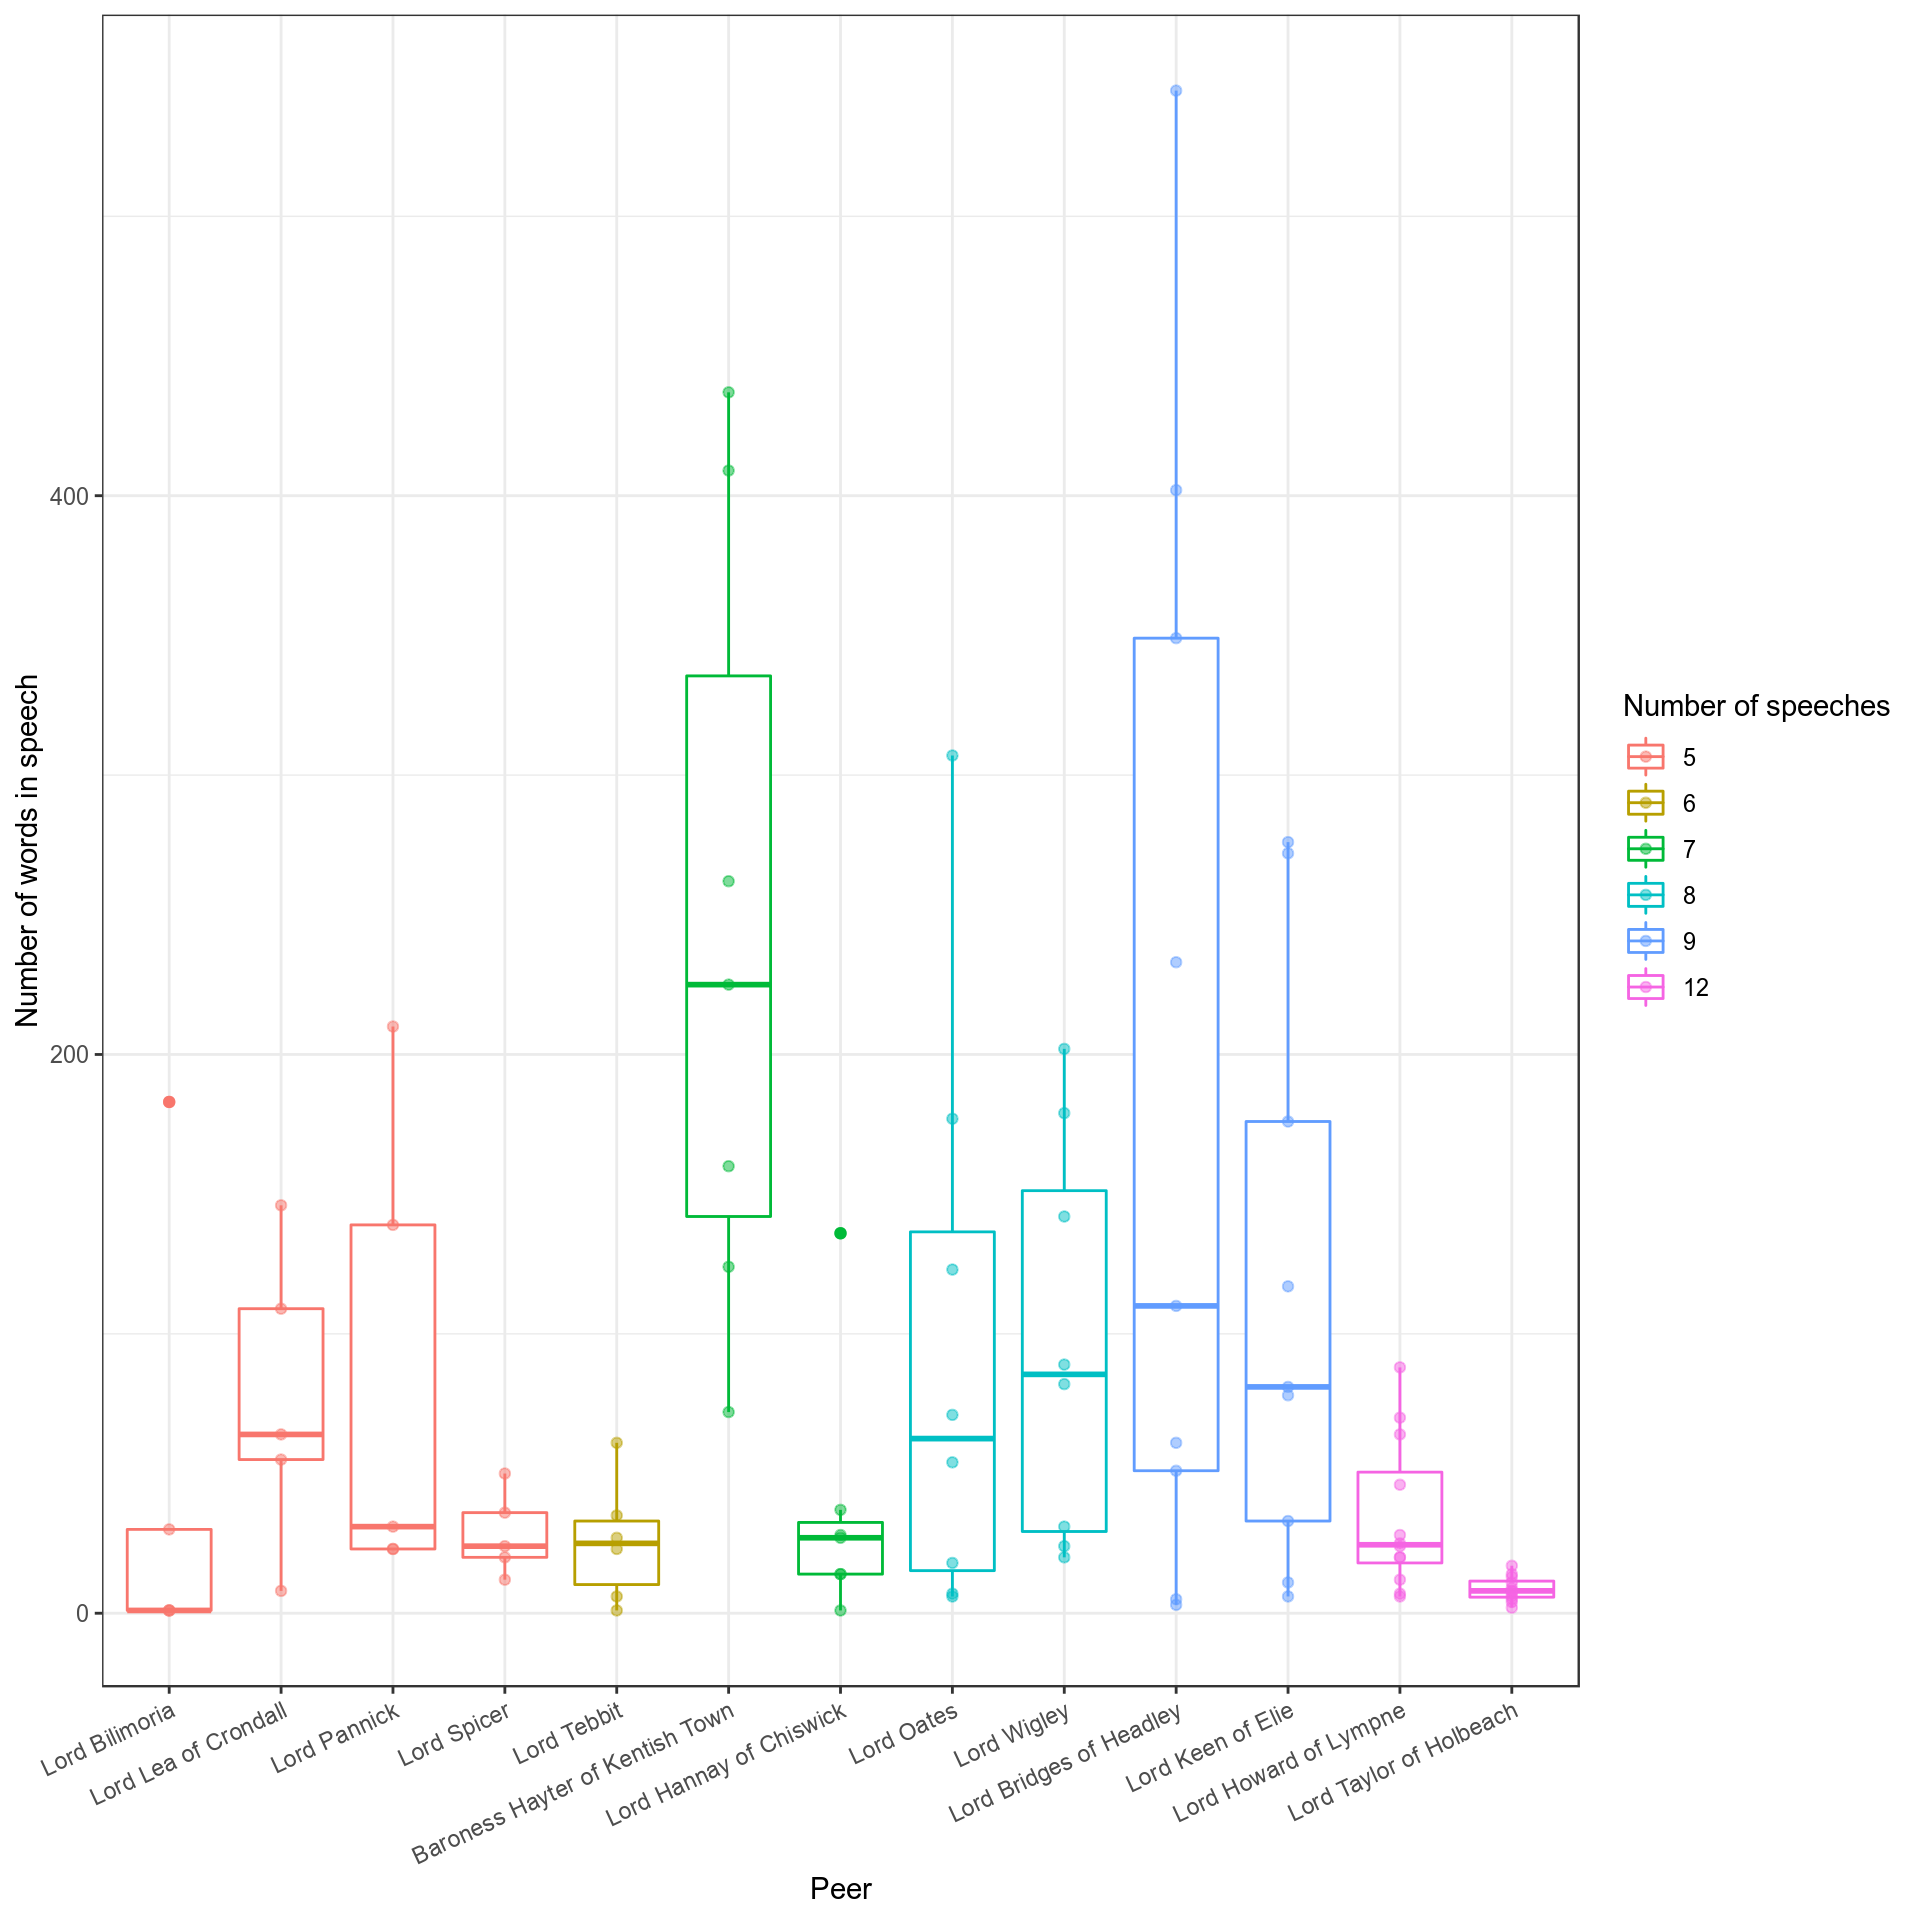
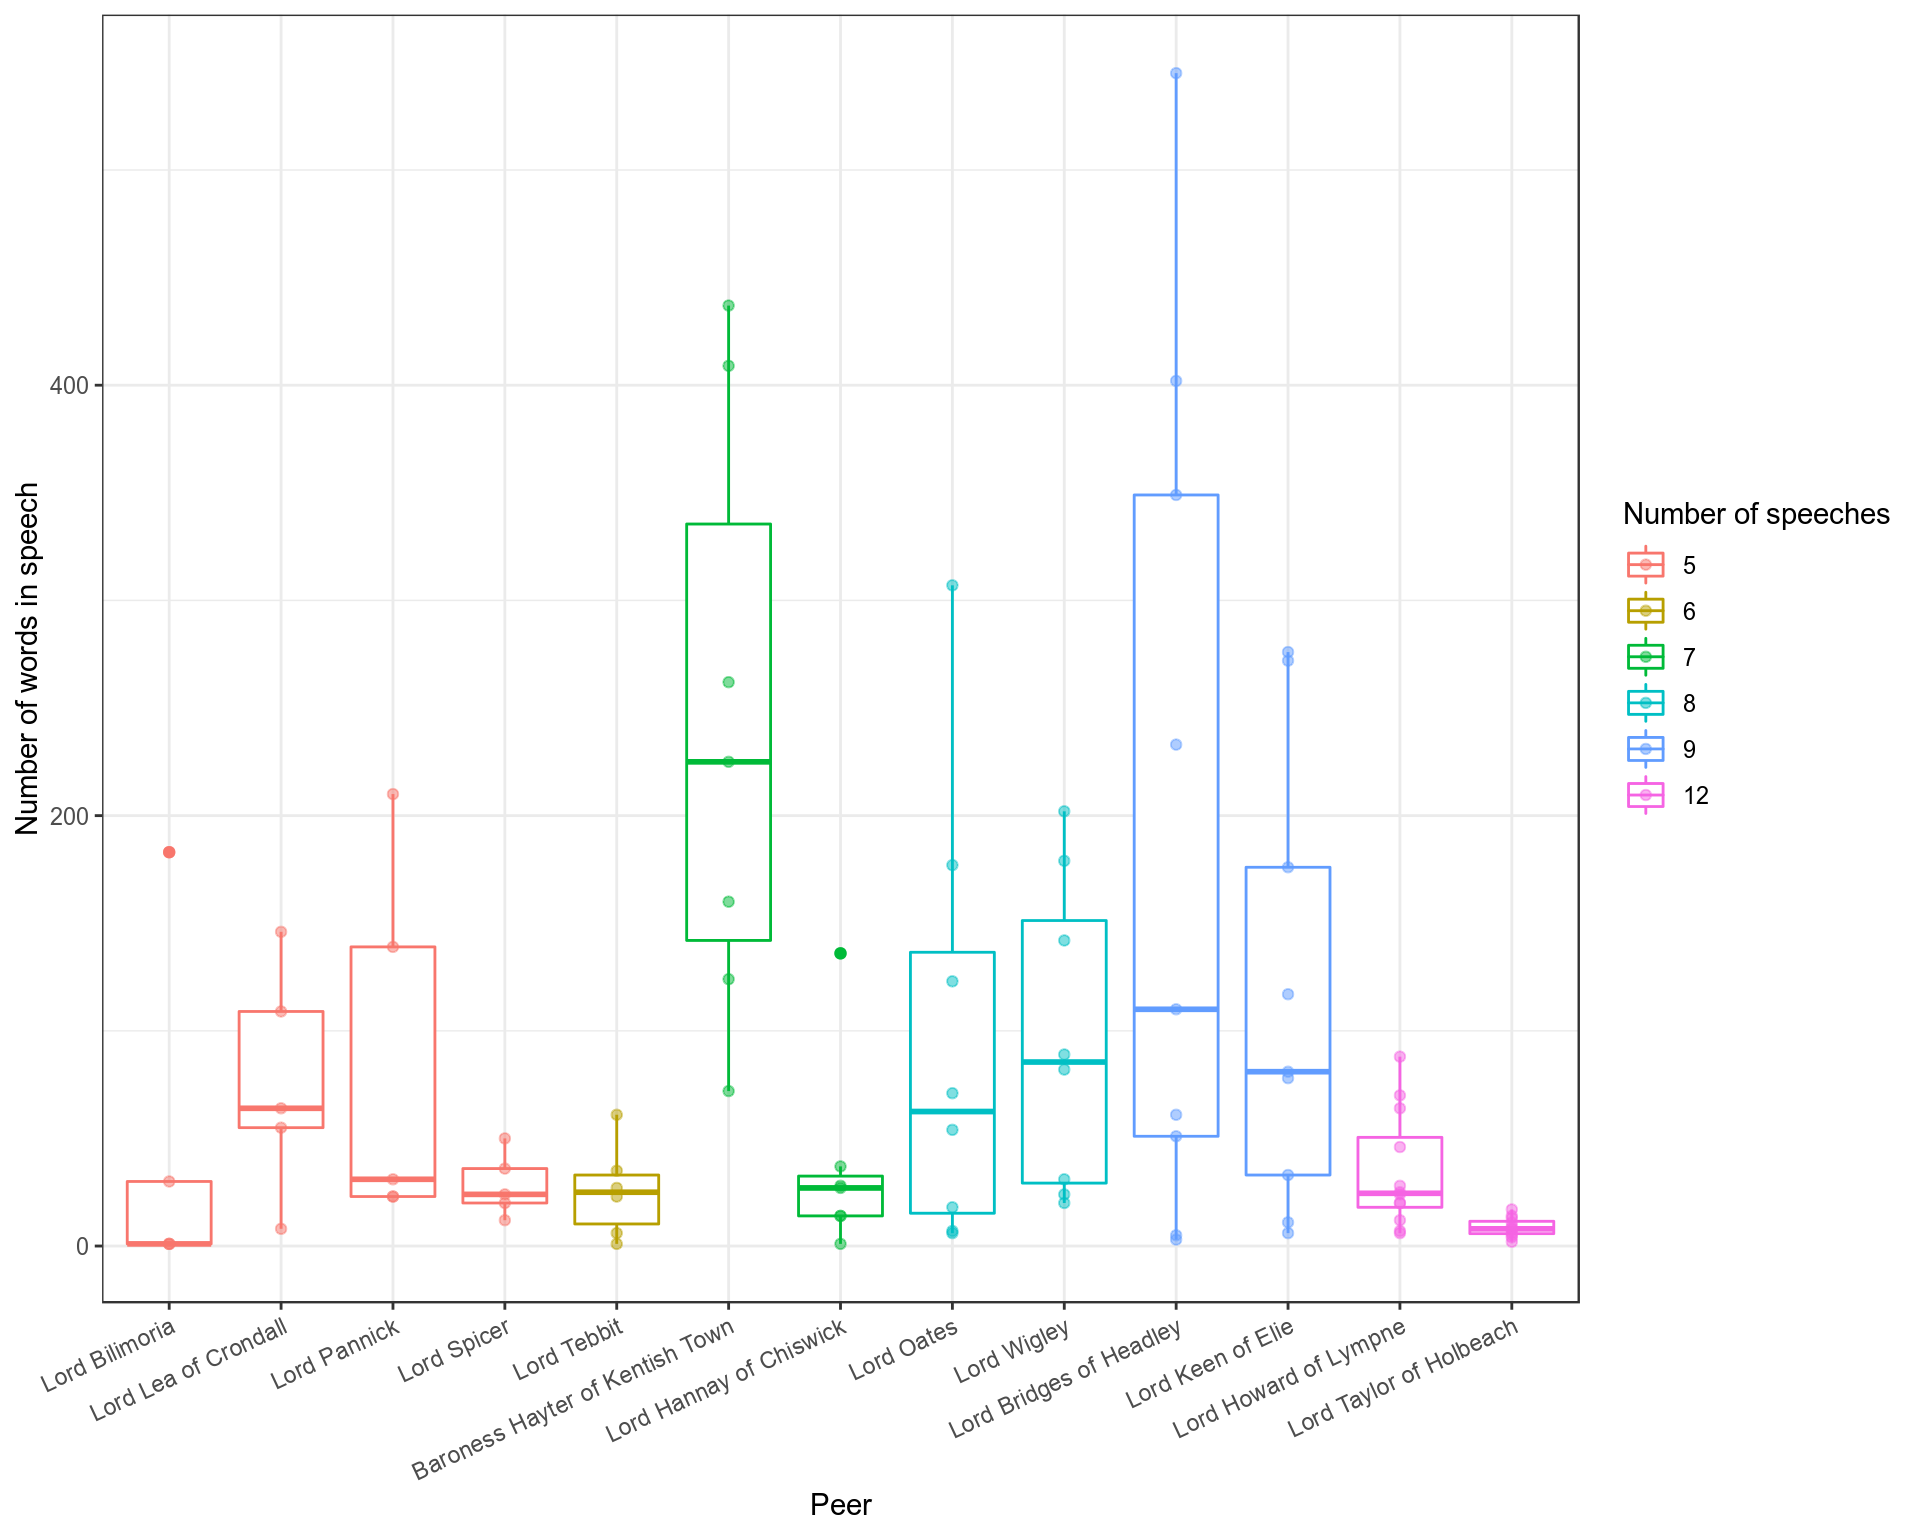
fix figure heights, try html for opening link in new tab

diff --git a/content/post/2019-02-05-text-mining-the-eu-withdrawal-bill-hansard.html b/content/post/2019-02-05-text-mining-the-eu-withdrawal-bill-hansard.html
@@ -27,7 +27,7 @@ tags:
 <p>We’ll start with the simplest detail relating to the words in our Hansard- how many are used in total each speech.</p>
 <p><img src="/post/2019-02-05-text-mining-the-eu-withdrawal-bill-hansard_files/figure-html/unnamed-chunk-2-1.png" width="672" /> The vast majority of speeches were at the shorter end of the distribution. The median number of words used was 135, with 75% of speeches using less than 418 words. The top 25% of speeches in terms of word counts range from 418 to almost 1800.</p>
 <p>For comparison, take a look at a 135 word and 400 word speech. Using my internal “speech length” indicator, these results are telling me that 75% of speeches are not really very long at all. Indeed, a 400 word speech only takes 1.5 to 2 minutes to read aloud.</p>
-<p>Take a look at Baroness Smith’s 135 word speech <a href="http://bit.ly/2SaRP80">here</a> and Baroness Stowell’s 420 word speech <a href="http://bit.ly/2SaKh4Z">here</a> for comparison.</p>
+<p>Take a look at Baroness Smith’s 135 word speech <a href="http://bit.ly/2SaRP80">here</a> and Baroness Stowell’s 420 word speech <a href="http://bit.ly/2SaKh4Z" target="_blank">here</a> for comparison.</p>
 <p>We also know that different MPs used different numbers of speeches. We would expect to see that the more speeches you make, the more words you use. Is this the case?</p>
 <div class="figure"><span id="fig:unnamed-chunk-4"></span>
 <img src="/post/2019-02-05-text-mining-the-eu-withdrawal-bill-hansard_files/figure-html/unnamed-chunk-4-1.png" alt="The relationship between the number of speeches a lord gives and the number of words they use." width="960" />
